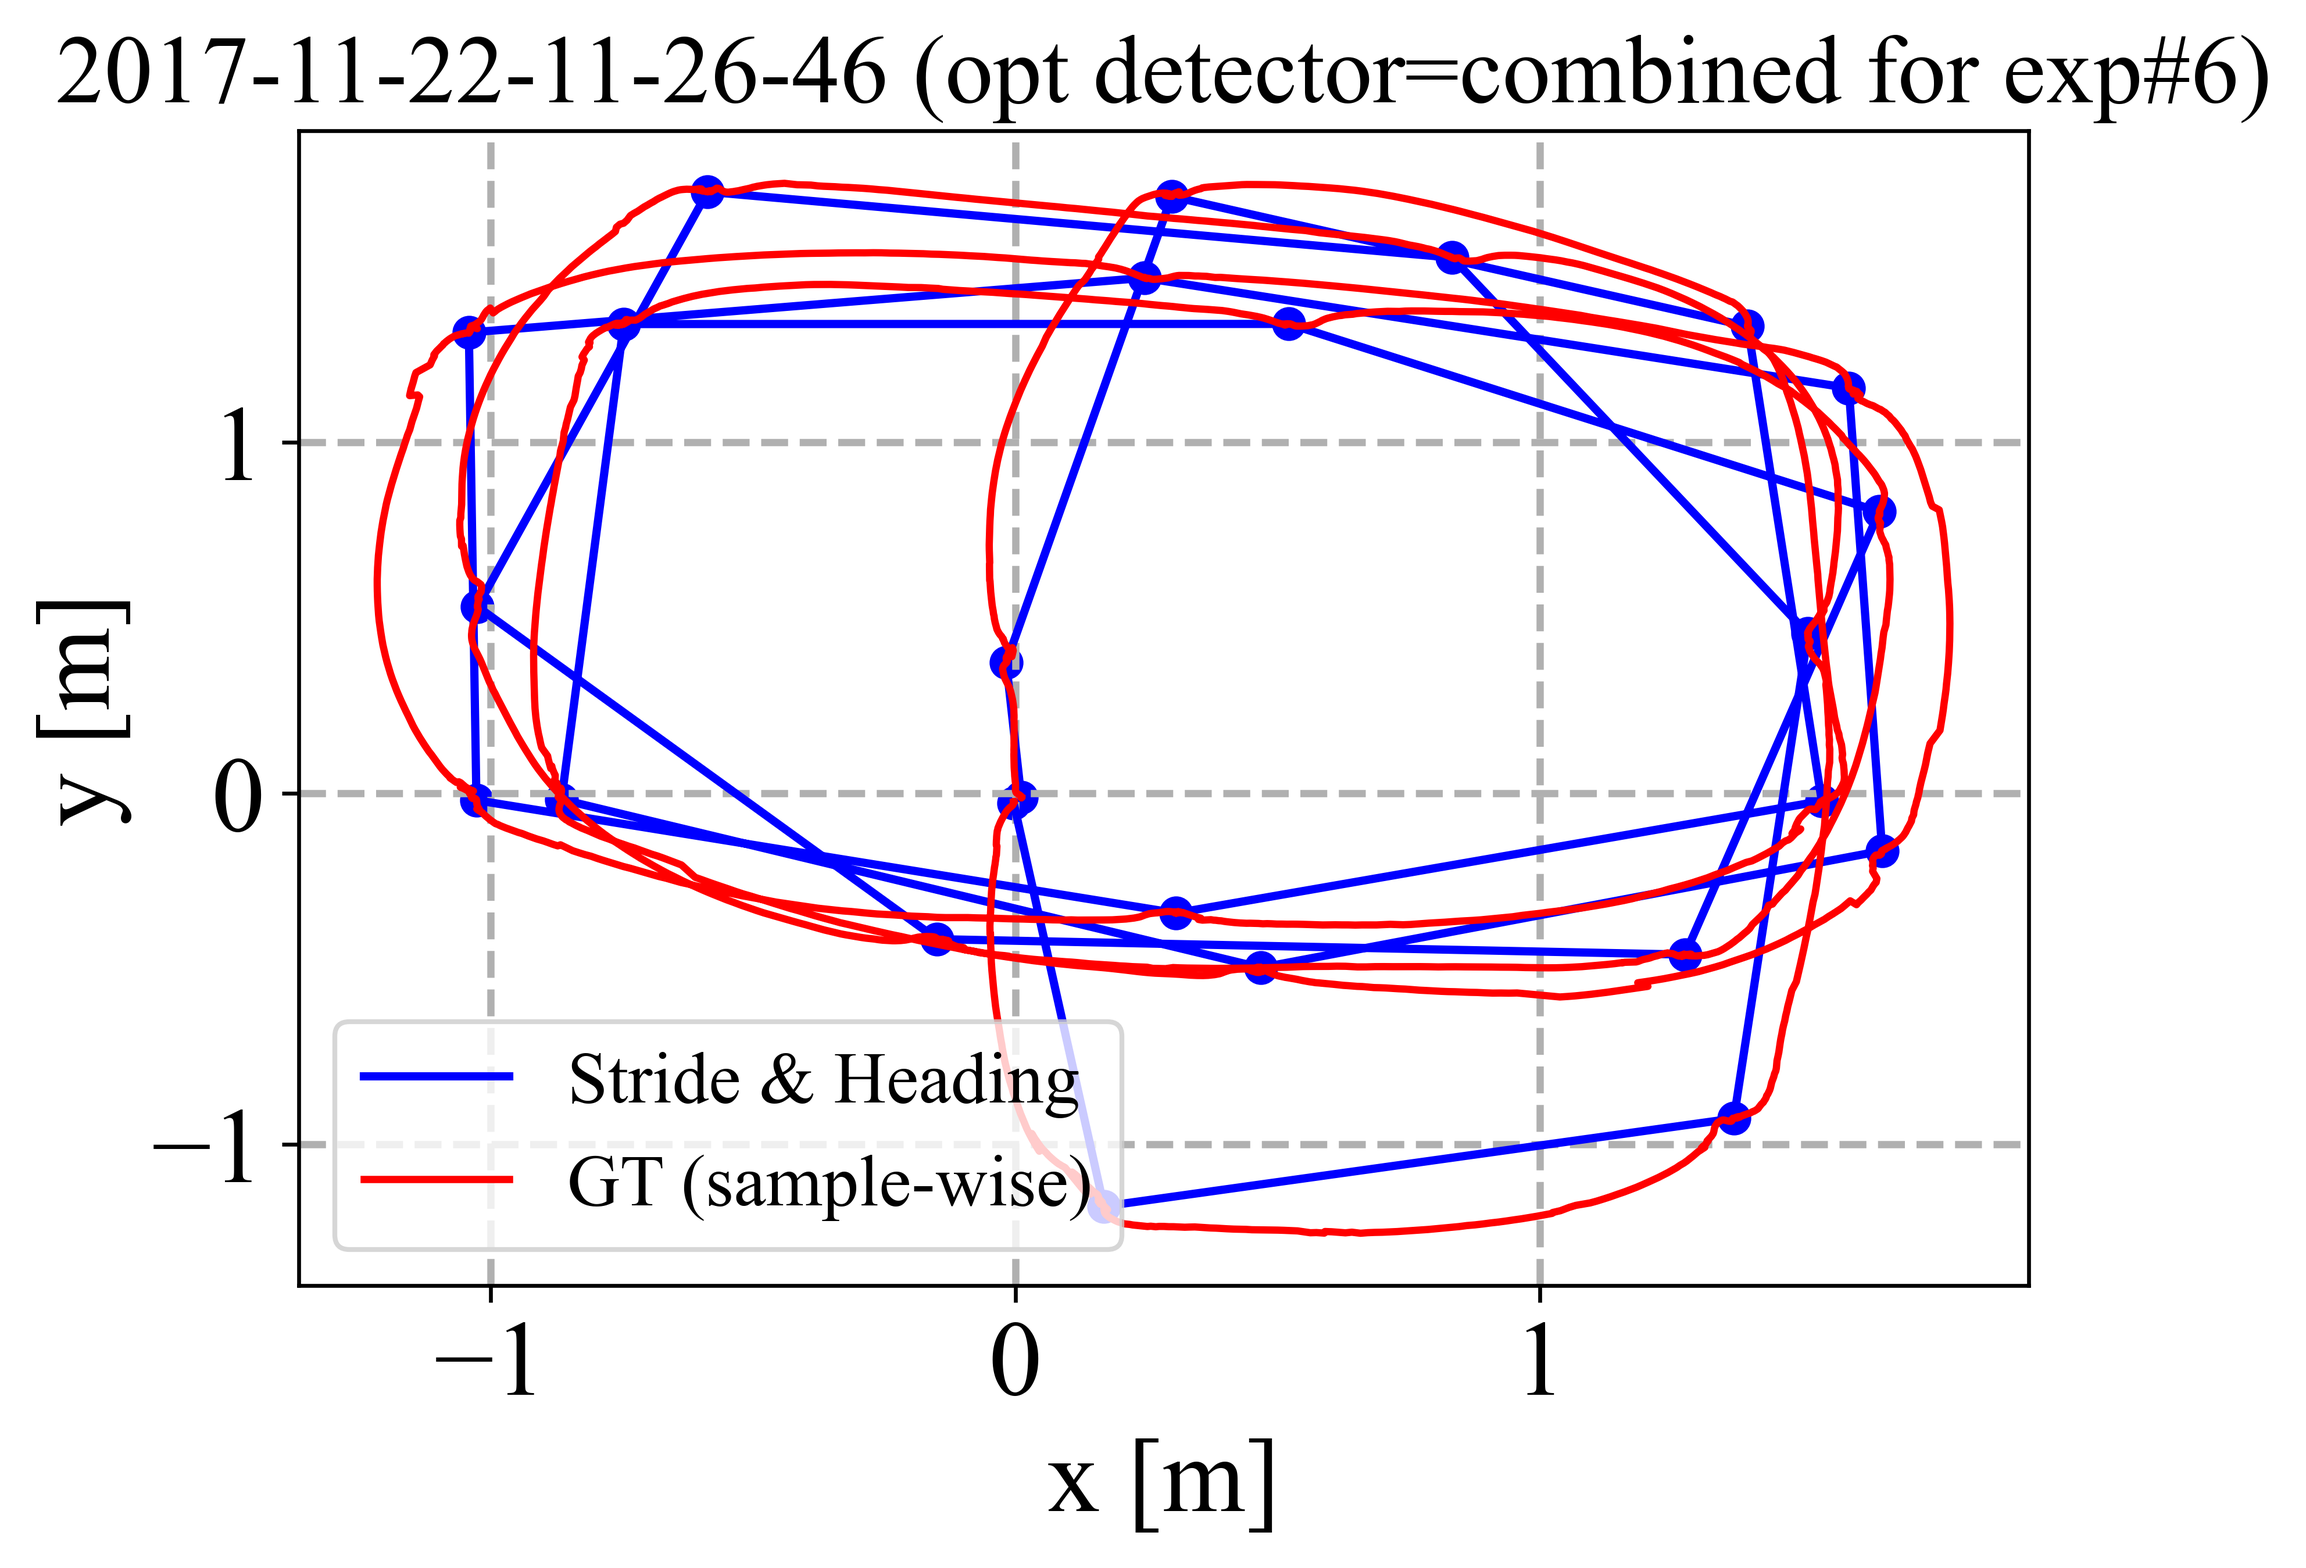
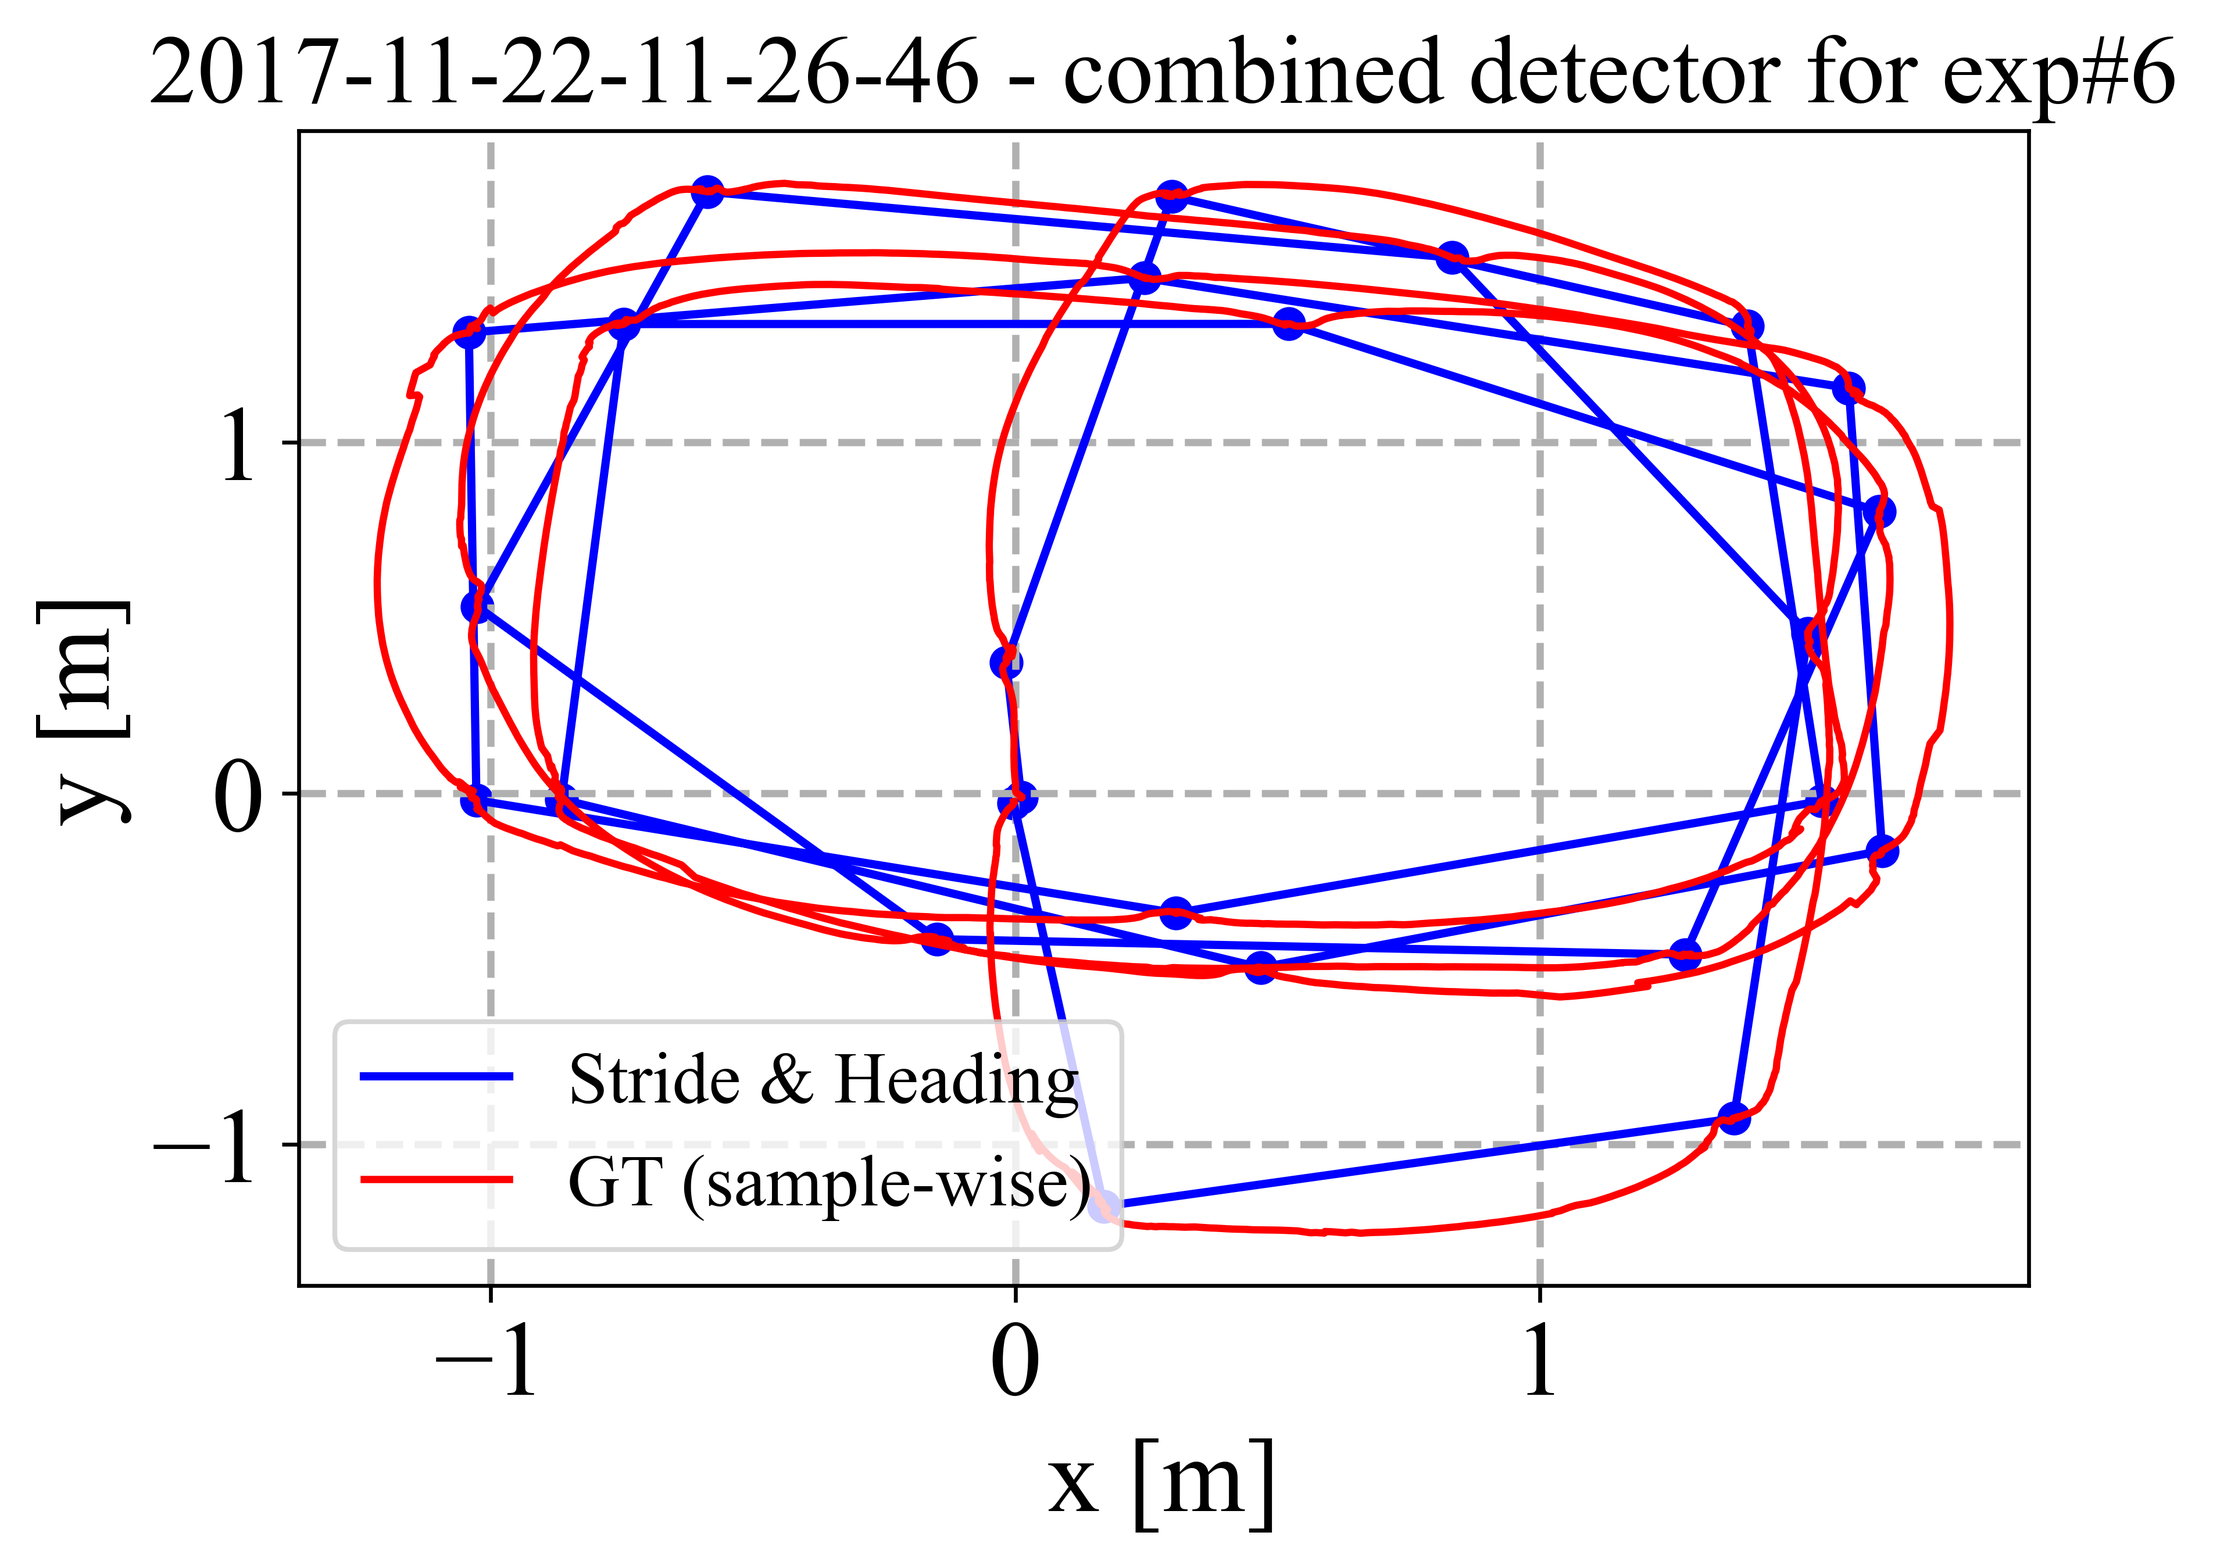
exp 4 and 6 corrections are added

diff --git a/plot_vicon_bipedal_locomotion_data.py b/plot_vicon_bipedal_locomotion_data.py
@@ -172,7 +172,7 @@ for file in vicon_data_files:
 
             # Plotting the reconstructed trajectory and the ground truth without stride indices
             plt.figure()
-            visualize.plot_topdown([reconstructed_traj, gt[:, :2]], title=f"{base_filename} (opt detector=combined for exp#{i+1})",
+            visualize.plot_topdown([reconstructed_traj, gt[:, :2]], title=f"{base_filename} - combined detector for exp#{i+1}",
                                 legend=['Stride & Heading', 'GT (sample-wise)']) 
             plt.scatter(-reconstructed_traj[:, 0], reconstructed_traj[:, 1], c='b', marker='o')
             plt.savefig(os.path.join(output_dir, f'stride_and_heading_{base_filename}_corrected.png'), dpi=600, bbox_inches='tight')
@@ -182,7 +182,7 @@ for file in vicon_data_files:
             plt.plot(timestamps[:len(zv)], zv, label='Raw')
             plt.plot(timestamps[:len(zv_filtered)], zv_filtered, label='Filtered')
             plt.scatter(timestamps[strideIndex], zv_filtered[strideIndex], c='r', marker='x')
-            plt.title(f'{base_filename} (combined ZUPT detector) for exp{i+1})')
+            plt.title(f'{base_filename} - combined ZUPT detector for exp{i+1}')
             plt.xlabel('Time [s]')
             plt.ylabel('Zero Velocity')
             plt.grid(True, which='both', linestyle='--', linewidth=1.5)

diff --git a/README.md b/README.md
@@ -126,7 +126,7 @@ pip install pandas==1.1.5
 
 <p align="justify">Just like we did to correct experiment 4 ZUPT phase and stride detection, here again VICON ZUPT detector is selected as the supplementary detector to include the detection of the missed stride.</p>
 
-<img src="data/vicon/processed/experiment4_ZUPT_detectors_strides.png" alt="ZV labels for experiment 6 (2017-11-22-11-26-46) VICON dataset" width=%100 height=auto>
+<img src="data/vicon/processed/experiment6_ZUPT_detectors_strides.png" alt="ZV labels for experiment 6 (2017-11-22-11-26-46) VICON dataset" width=%100 height=auto>
 
 <p align="justify">Integration of optimal ZUPT detector SHOE (after filtering) with the supplementary VICON ZUPT detector provided us successfull detection of the missed stride as shown in the combined ZUPT detector plot located at the bottom. Corresponding stride & heading system generated trajectory and ZV labels can be seen below for the experiment 6.</p>
 
